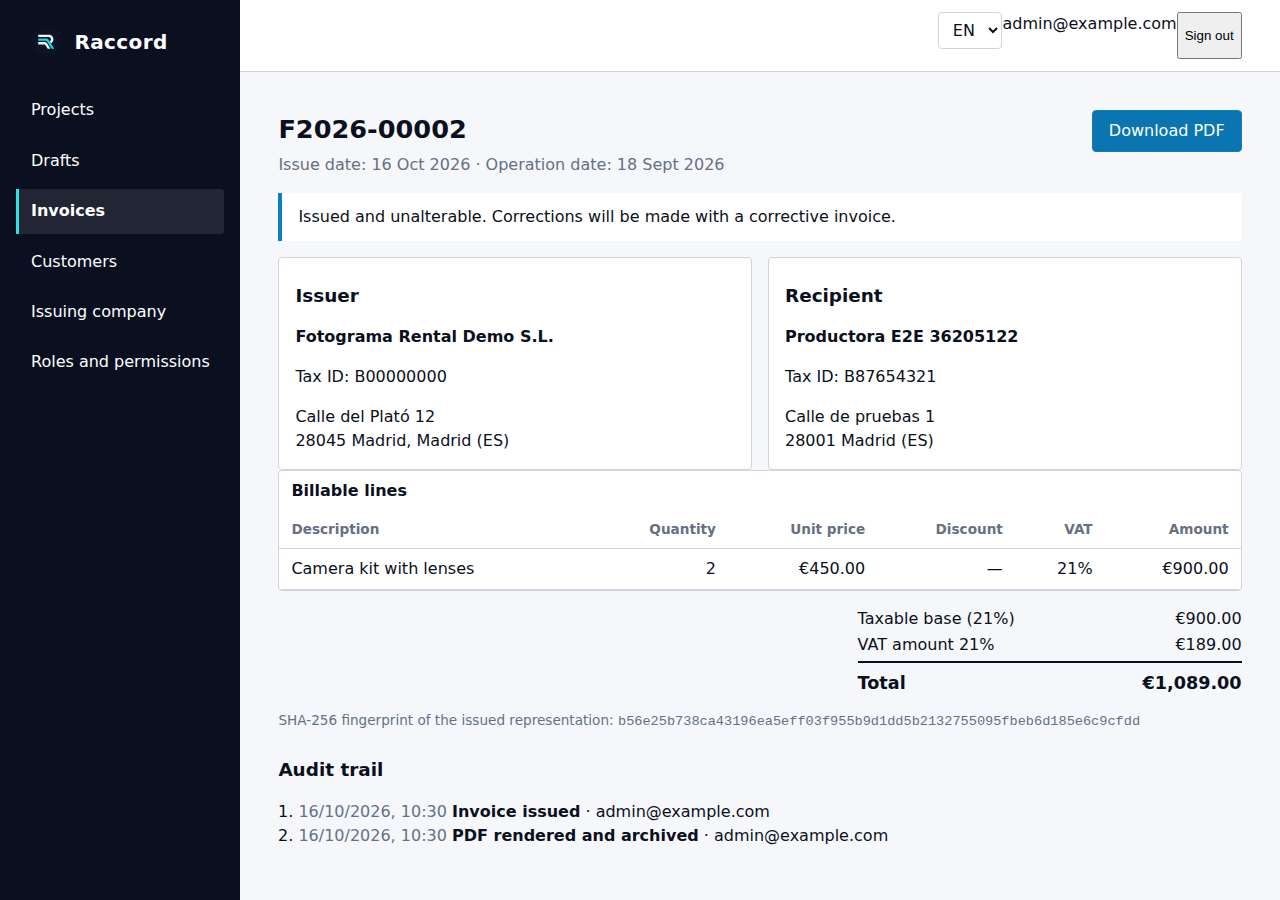
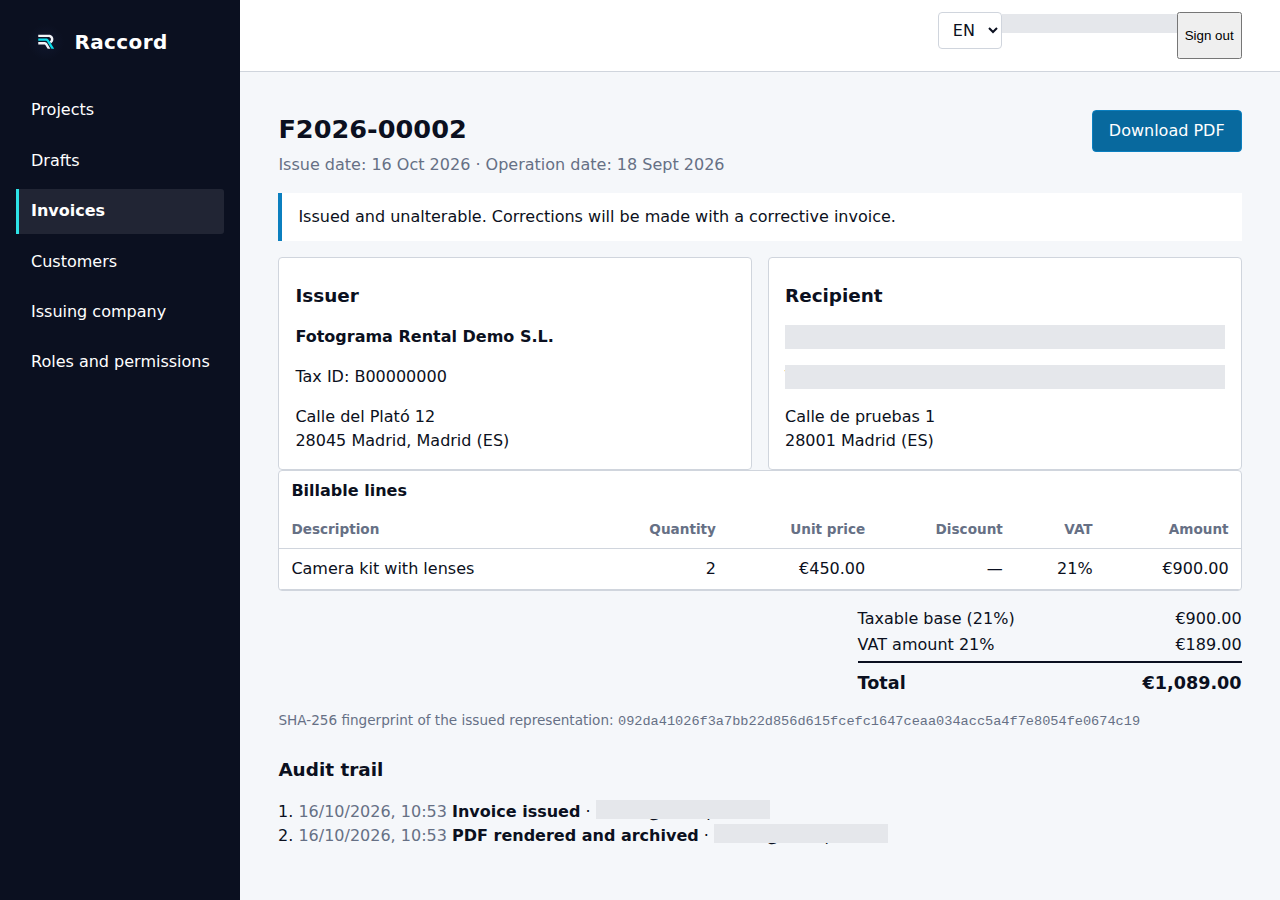
fix: publish reviewed masked invoice screenshot

diff --git a/src/public-site/README.md b/src/public-site/README.md
@@ -1,6 +1,6 @@
 # Public site assets
 
-Product screenshots must come from a successful Playwright journey in `.github/workflows/ci.yml`. The job sets `PLAYWRIGHT_CAPTURE_EVIDENCE=true` and uploads `playwright-artifacts/` for seven days, including successful checkpoints. `InvoiceDocumentJourney_Should_DownloadFromInvoicePage` issues a synthetic invoice and downloads its PDF; it saves the publication-safe screenshot as `invoice-publication.png` after masking the test login, recipient name and tax identifier. Its matching journey JSON must say `passed` before the image is considered for publication.
+Product screenshots must come from a successful Playwright journey in `.github/workflows/ci.yml`. The job sets `PLAYWRIGHT_CAPTURE_EVIDENCE=true` and uploads `playwright-artifacts/` for seven days, including successful checkpoints. `InvoiceDocumentJourney_Should_DownloadFromInvoicePage` issues a synthetic invoice and downloads its PDF; it saves the publication-safe screenshot as `invoice-publication.png` after masking the account email, recipient name and tax identifier. The committed invoice screenshot came from [CI run 38889875378](https://github.com/juangcarmona/raccord/actions/runs/38889875378), at `tests/Raccord.EndToEndTests/bin/Release/net10.0/playwright-artifacts/invoice-publication.png`; its `invoice-document-download.json` result says `passed`.
 
 Before publishing an image, confirm its matching `invoice-document-download.json` result says `passed`, inspect the image for fictional data and legibility, and check that it contains no secrets, traces or failure state. Commit the reviewed image under `src/public-site/images/` so the asset remains available after the CI artifact expires.
 

diff --git a/openspec/changes/public-product-screenshots/tasks.md b/openspec/changes/public-product-screenshots/tasks.md
@@ -2,15 +2,15 @@
 
 ## 1. Capture and publish product screens
 
-- [x] 1.1 Inspect the successful #271 CI E2E artifact and select the invoice screenshot only when its journey result says `passed`.
+- [x] 1.1 Inspect the successful #272 CI E2E artifact and select the invoice screenshot only when its journey result says `passed`.
 - [x] 1.2 Add selected screenshots, captions and alt text to the Spanish homepage.
 - [x] 1.3 Copy screenshot assets into the static output and test their presence and links.
 - [x] 1.4 Record the source journey, capture point and refresh steps.
 
 ## 2. Validate
 
-- [x] 2.1 Inspect every candidate image for synthetic data, secrets, traces, failure state and legibility.
-- [ ] 2.2 Run the site build, E2E journey and OpenSpec/ProductShape validations.
+- [x] 2.1 Inspect the #272 CI image for synthetic data, secrets, traces, failure state and legibility; mask the account email, recipient name and tax identifier.
+- [x] 2.2 Run the site build, E2E journey and OpenSpec/ProductShape validations.
 
 <!-- pdac:cite id="UC-OBTAIN-INVOICE-DOCUMENT" digest="sha256:ba891b44976370dba63dc987cbe9fd4ba8d78de034684e9e5beb4cbfbfb07933" -->
 <!-- pdac:cite id="JRN-BILL-FINISHED-PROJECT" digest="sha256:b9530a2b0a9aac0f9cb3a5a9608494d08be1fc1190f395887fc7bb7fb30df28e" -->
